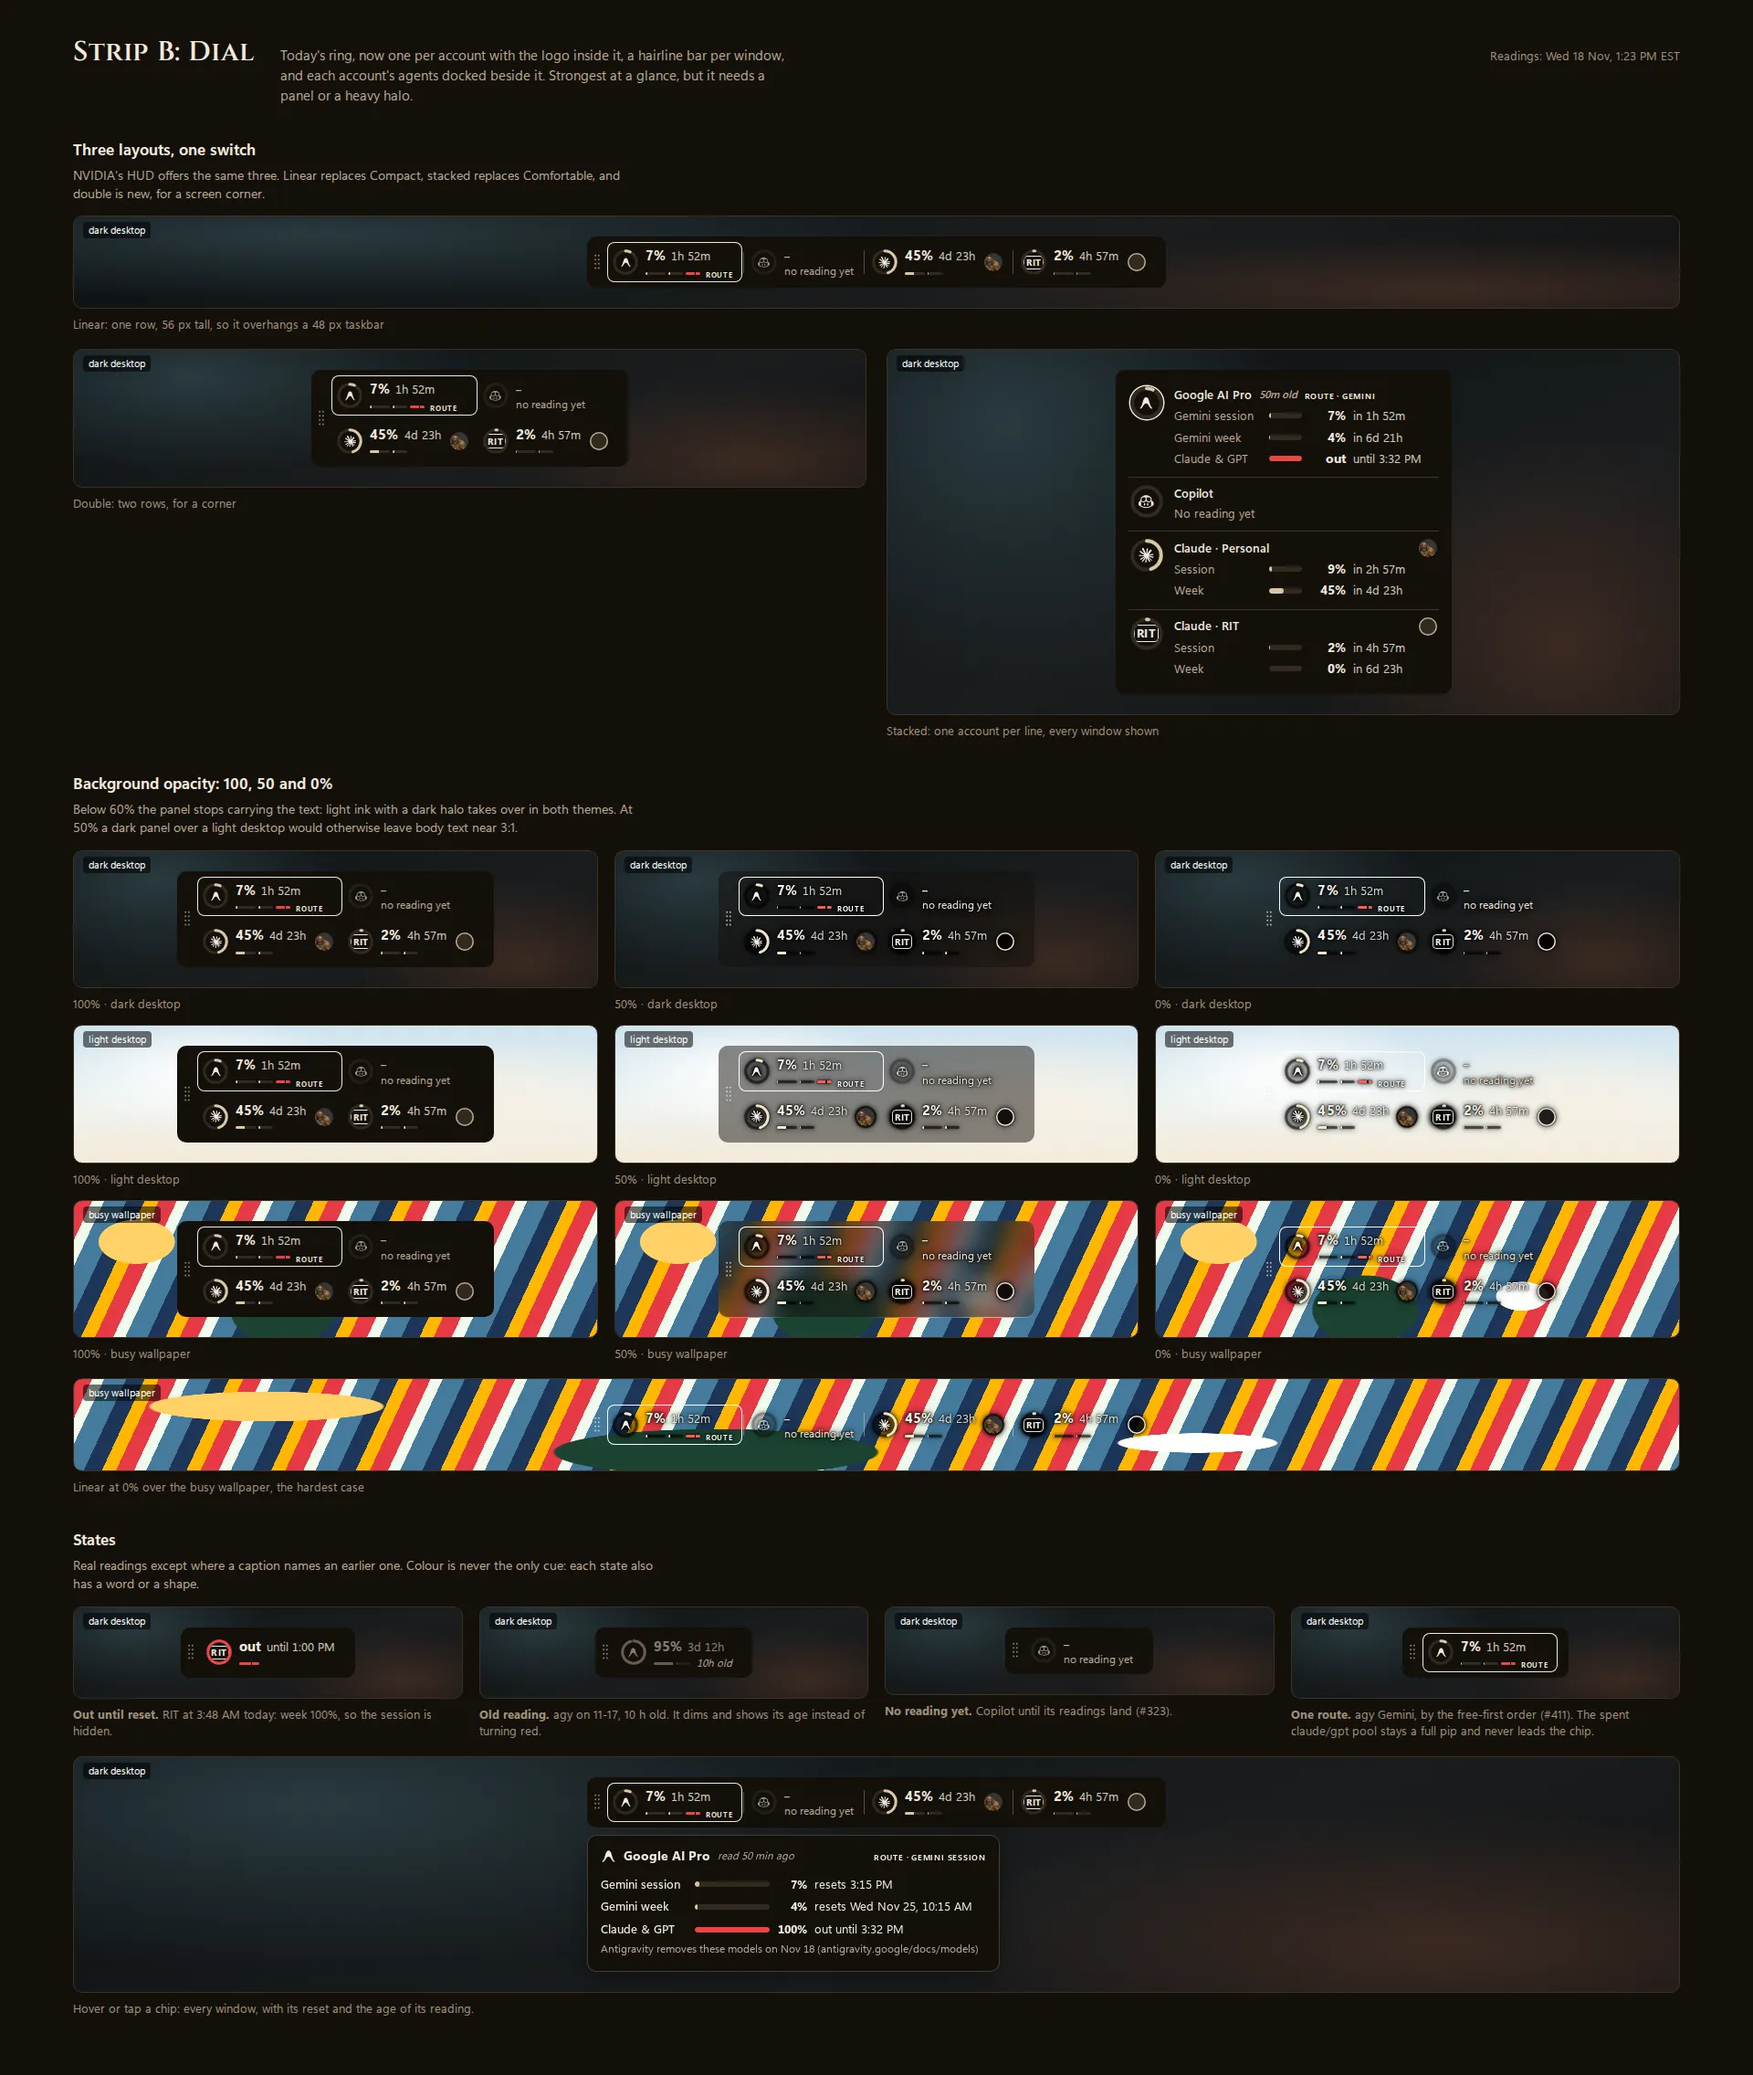
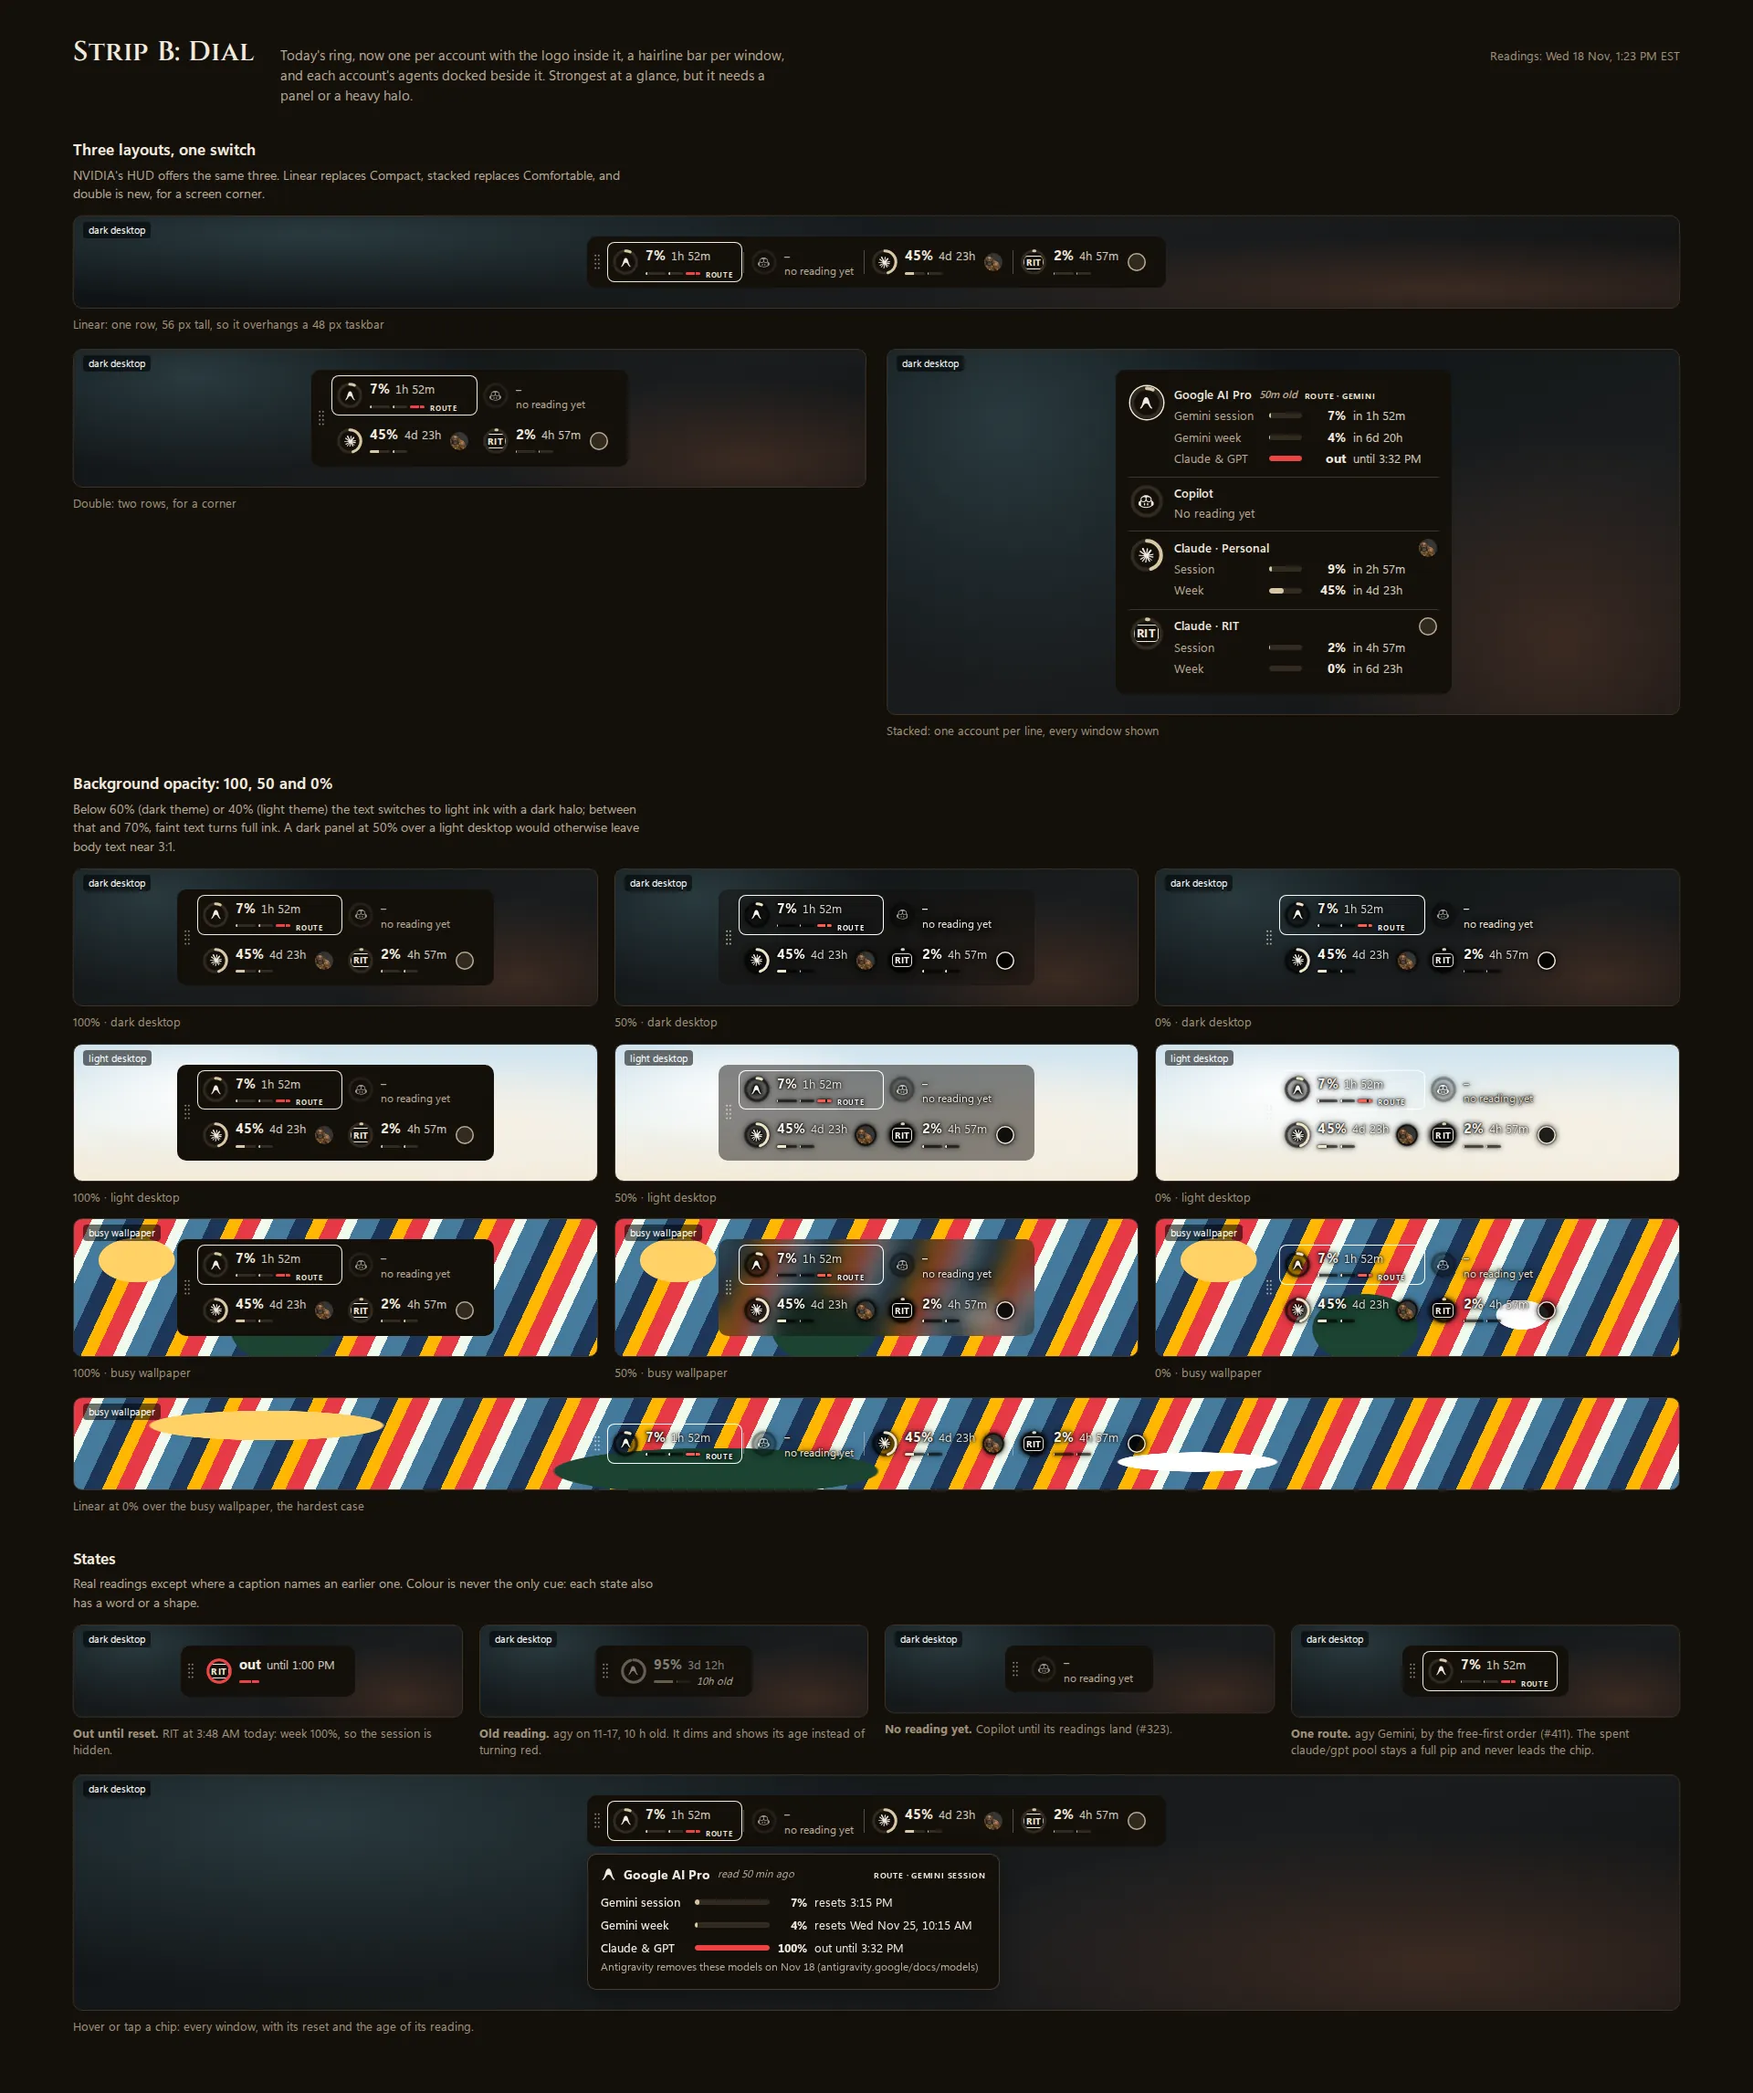
Mockups: halo threshold per theme, agy week duration
The 60% halo also fired in the light theme, where a light panel at 50%
kept crisp dark ink; the threshold is now 60% dark, 40% light, and faint
text takes the full ink up to 70%. agy's week reads 6d 20h (6d 20h 52m,
floored like the others); readings.js names each source account folder.

Refs #421 #438

diff --git a/docs/mockups/2026-11-18/readings.js b/docs/mockups/2026-11-18/readings.js
@@ -6,9 +6,9 @@
 // klepsydra rewrites a session's file in place, so the files on disk move on;
 // SOURCE freezes what each one held when it was read (accounts/<id>/<session>.json).
 window.SOURCE = {
-  personal: { session: "d1561ead", written_at: 1795026200, five_hour: [9, 1795036800], seven_day: [45, 1795456800] },
-  rit: { session: "b02de147", written_at: 1795026210, five_hour: [2, 1795044000], seven_day: [0, 1795629600] },
-  agy: { session: "0e65e748", written_at: 1795023195, five_hour: [7.2, 1795032916], seven_day: [4.06, 1795619716], claude_gpt: [100, 1795033968] },
+  personal: { account: "6f5fe38b", session: "d1561ead", written_at: 1795026200, five_hour: [9, 1795036800], seven_day: [45, 1795456800] },
+  rit: { account: "96130a18", session: "b02de147", written_at: 1795026210, five_hour: [2, 1795044000], seven_day: [0, 1795629600] },
+  agy: { account: "agy-primary", session: "0e65e748", written_at: 1795023195, five_hour: [7.2, 1795032916], seven_day: [4.06, 1795619716], claude_gpt: [100, 1795033968] },
 };
 // Copilot has no reading yet (#323); its chip is a labelled placeholder.
 // Order is the route order (gauge.js ROUTE_ORDER): agy, Copilot, API credit
@@ -31,7 +31,7 @@ window.SNAP = {
       ageMin: 50, // its reading was written at 12:33 PM
       windows: [
         { key: "five_hour", label: "Gemini session", short: "5h", pct: 7, in: "1h 52m", at: "3:15 PM" },
-        { key: "seven_day", label: "Gemini week", short: "wk", pct: 4, in: "6d 21h", at: "Wed Nov 25, 10:15 AM" },
+        { key: "seven_day", label: "Gemini week", short: "wk", pct: 4, in: "6d 20h", at: "Wed Nov 25, 10:15 AM" },
         {
           key: "claude_gpt", label: "Claude & GPT", short: "c/g", pct: 100, in: "2h 9m", at: "3:32 PM", group: true,
           note: "Antigravity removes these models on Nov 18 (antigravity.google/docs/models)",

diff --git a/docs/mockups/2026-11-18/strip.js b/docs/mockups/2026-11-18/strip.js
@@ -88,7 +88,11 @@
   const grip = `<span class="grip" aria-hidden="true">${ICON.grip}</span>`;
   const strip = (v, layout, accts, opt = {}) => {
     const op = opt.op ?? 100;
-    const halo = op < 60 ? " halo" : ""; // at 50% a dark panel over a light desktop drops body text to 3.3:1
+    // The halo threshold follows the panel: at 50% a dark panel over a light desktop
+    // drops body text to 3.3:1, while a light panel at 50% keeps its dark ink crisp.
+    const light = document.documentElement.dataset.theme === "light";
+    const haloAt = light ? 40 : 60;
+    const halo = op < haloAt ? " halo" : op < 70 ? " thin" : "";
     const item = v === "a" ? itemA : itemB;
     const row = v === "a" ? rowA : rowB;
     const body =
@@ -143,7 +147,7 @@
 </div>
 
 <h2>Background opacity: 100, 50 and 0%</h2>
-<p>Below 60% the panel stops carrying the text: light ink with a dark halo takes over in both themes. At 50% a dark panel over a light desktop would otherwise leave body text near 3:1.</p>
+<p>Below 60% (dark theme) or 40% (light theme) the text switches to light ink with a dark halo; between that and 70%, faint text turns full ink. A dark panel at 50% over a light desktop would otherwise leave body text near 3:1.</p>
 <div class="opgrid">
   ${["wp-dark", "wp-light", "wp-busy"].map((w) => [100, 50, 0].map((op) => `<figure>${tile(w, strip(v, "double", A, { op }))}<figcaption class="cap">${op}% · ${wpName[w]}</figcaption></figure>`).join("")).join("")}
 </div>

diff --git a/docs/mockups/2026-11-18/settings.js b/docs/mockups/2026-11-18/settings.js
@@ -68,7 +68,7 @@
       rows: [
         row("Card density", "How much each session card shows on the wall.", seg(["Auto", "Comfortable", "Compact"], "Compact", "Card density")),
         row("Gauge layout", "Linear fits a taskbar; double suits a screen corner; stacked shows every window.", seg(["Linear", "Double", "Stacked"], "Linear", "Gauge layout")),
-        row("Gauge background opacity", "Below 60% the text gets a dark halo so it reads over the wallpaper.", slider(80)),
+        row("Gauge background opacity", "Below 60% (40% in the light theme) the text gets a dark halo so it reads over the wallpaper.", slider(80)),
         row("Text-only gauge", "Logo, value and reset only: no rings or bars (#438).", toggle(false, "Text-only gauge")),
         row("Light or dark", "The wall and the gauge follow Windows unless you pick one.", select("Match Windows", "Light or dark")),
       ],

diff --git a/docs/mockups/2026-11-18/mock.css b/docs/mockups/2026-11-18/mock.css
@@ -123,8 +123,10 @@ body {
   font-variant-numeric: tabular-nums lining-nums;
 }
 .panel[data-op]:not([data-op="0"]) { -webkit-backdrop-filter: blur(12px); backdrop-filter: blur(12px); }
-/* Below 40% the panel no longer carries the text: HUD ink (light, with a
+/* Below the halo threshold (strip.js: 60% dark, 40% light) the panel no longer carries the text: HUD ink (light, with a
    dark halo, never a light one) takes over in either theme. */
+/* Part see-through: faint text would fall under 4.5:1, so it takes the full ink. */
+.panel.thin { --panel-dim: var(--panel-ink); }
 .panel.halo {
   --panel-ink: #f7f1e6;
   --panel-dim: #efe6d6;

diff --git a/docs/mockups/2026-11-18/strip.css b/docs/mockups/2026-11-18/strip.css
@@ -136,7 +136,8 @@ figure { min-width: 0; }
   .sa-row .cell { grid-column: 2; justify-content: start; }
   .sa-row .cell:empty { display: none; }
   .sb-row { min-width: 0; }
-  .sb-row .line { grid-template-columns: 78px 1fr 38px 64px; }
+  .sb-row .line { grid-template-columns: 70px 1fr 34px auto; }
+  .sb-row .line .t { white-space: nowrap; }
   .detail { min-width: 0; width: 100%; }
   .detail td:nth-child(2) { width: 50px; }
   .strip.double .items { grid-template-columns: auto; }

diff --git a/docs/mockups/2026-11-18/review.md b/docs/mockups/2026-11-18/review.md
@@ -11,7 +11,7 @@ Mockups for the gauge strip (#421, #438), + New session (#440) and the settings 
 | [light](shots/design-gauge-a-1920-light.webp) · [phone dark](shots/design-gauge-a-390-dark.webp) · [phone light](shots/design-gauge-a-390-light.webp) | [light](shots/design-gauge-b-1920-light.webp) · [phone dark](shots/design-gauge-b-390-dark.webp) · [phone light](shots/design-gauge-b-390-light.webp) |
 | Text first, like NVIDIA's HUD: logo, bold value, reset, one small pip per window. It reads at 0% opacity over the dark and light desktops; over a busy wallpaper the small reset times thin out. The trade: a pip is a smaller status cue than a ring. | Today's ring, one per account, with the logo inside it and each account's agents docked beside it. Strongest at a glance. The trade: its hairline bars fade once the panel goes, and at 56 px it overhangs a 48 px taskbar (A is 47 px). |
 
-Both have the three NVIDIA layouts on one switch (linear, double, stacked), and the 100/50/0% opacity grid over dark, light and busy wallpaper. Below 60% the text switches to light ink with a dark halo, because at 50% a dark panel over a light desktop leaves body text near 3:1. Both also show the states: out until reset (session hidden), an old reading dimmed with its age, the Copilot placeholder, and one route mark (agy Gemini). Linear width with 4 chips: **671 px (A), 634 px (B)**, against about 1,700 px for today's 7 meters. Neither layout changes width between 1920 and 1366.
+Both have the three NVIDIA layouts on one switch (linear, double, stacked), and the 100/50/0% opacity grid over dark, light and busy wallpaper. Below 60% (dark theme) or 40% (light theme) the text switches to light ink with a dark halo; between that and 70%, faint text turns full ink. Without it, a dark panel at 50% over a light desktop leaves body text near 3:1. Both also show the states: out until reset (session hidden), an old reading dimmed with its age, the Copilot placeholder, and one route mark (agy Gemini). Linear width with 4 chips: **671 px (A), 634 px (B)**, against about 1,700 px for today's 7 meters. Neither layout changes width between 1920 and 1366.
 
 **Recommendation: A, with B's docked faces.** #438 makes 0% a real setting, and A reads best there. A is also the less wordy one you asked for (logo, value, time). The faces docked to their account fix the "separate avatars" problem in #421 and move over to A unchanged.
 
